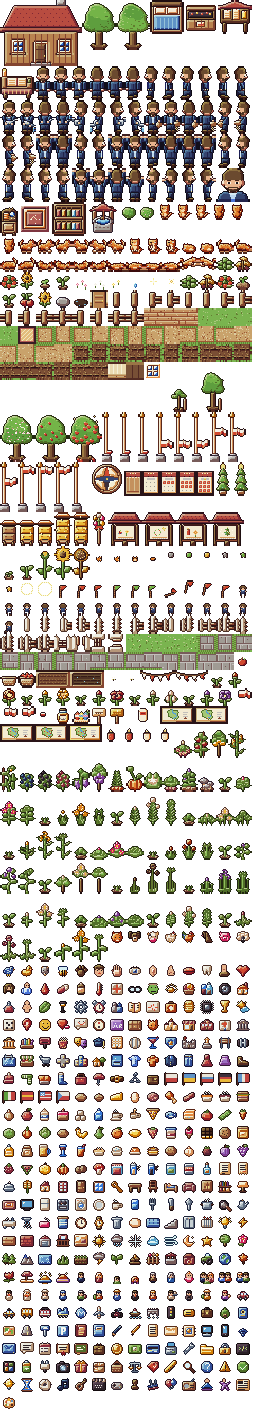
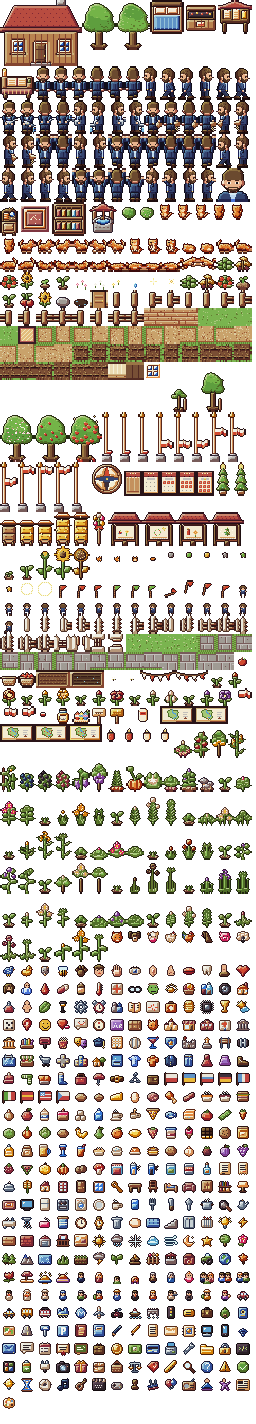
Герой: профиль перерисован вручную в духе SDV
Голова в профиль с носом в 1 px, глазом, бровью, ухом и бородой по линии челюсти,
зачёс с объёмом; пиджак с полосой рубашки, лацканом и пряжкой; рука перед корпусом
машет против ближней ноги; шаг с дальней ногой темнее и покачиванием корпуса на 1 px.
Рабочие позы сбоку (полив, удобрение, ноша, бросок) — на новом корпусе. Фронт, спина
и портрет без изменений, палитра та же.

diff --git a/tools/art_hero.py b/tools/art_hero.py
@@ -2,6 +2,8 @@
 
 Короткие тёмно-русые волосы с зачёсом вверх, короткая борода, светло-голубая рубашка, тёмно-синий пиджак и брюки,
 коричневый ремень и ботинки. Голова — одна группа (без швов), руки отдельной группой, ботинки отдельной.
+Профиль (left, right = зеркало) нарисован вручную тонами палитры (HEAD_SIDE, TORSO_SIDE, ARM_SIDE, LEGS_SIDE): голова 3/4
+в духе SDV, рука против ближней ноги, в шаге корпус опускается на 1 px.
 """
 from __future__ import annotations
 
@@ -78,34 +80,157 @@ def hero_up(step: int, arms=None, post=None) -> Cv:
     return c
 
 
+class HCv(Cv):
+    """Холст профиля: фигура, нарисованная поверх, снимает ручные тона (накладки) под собой."""
+
+    def fill(self, test, part, only=None):
+        for y in range(self.h):
+            for x in range(self.w):
+                i = y * self.w + x
+                if test(x + 0.5, y + 0.5) and (only is None or self.m[i] in only):
+                    self.m[i] = part
+                    self.ov[i] = None
+        return self
+
+
+# Ручная раскладка тонов (профиль рисуется как пиксель-арт): буква → (часть для контура, тон палитры). '.' пусто.
+TONES = {
+    'k': ('hair', 'hair.4'), 'K': ('hair', 'hair.3'), 'H': ('hair', 'hair.2'), 'h': ('hair', 'hair.1'), 'D': ('hair', 'hair.0'),
+    'l': ('skin', 'skin.4'), 'L': ('skin', 'skin.3'), 'S': ('skin', 'skin.2'), 's': ('skin', 'skin.1'), 'x': ('skin', 'skin.0'),
+    'C': ('skin', 'cheek'), 'E': ('skin', 'ink'), 'W': ('skin', 'eye_white'), 'M': ('skin', 'mouth'),
+    'n': ('beard', 'beard.3'), 'B': ('beard', 'beard.2'), 'b': ('beard', 'beard.1'), 'd': ('beard', 'beard.0'),
+    't': ('blazer', 'blazer.4'), 'r': ('blazer', 'blazer.3'), 'e': ('blazer', 'blazer.2'), 'w': ('blazer', 'blazer.1'), 'q': ('blazer', 'blazer.0'),
+    'v': ('shirt', 'shirt.4'), 'g': ('shirt', 'shirt.3'), 'f': ('shirt', 'shirt.2'),
+    'P': ('trouser', 'trouser.4'), 'p': ('trouser', 'trouser.3'), 'o': ('trouser', 'trouser.2'), 'i': ('trouser', 'trouser.1'), 'u': ('trouser', 'trouser.0'),
+    'G': ('boot', 'boot.3'), 'J': ('boot', 'boot.2'), 'j': ('boot', 'boot.1'), 'Y': ('boot', 'boot.0'),
+    'V': ('belt', 'belt.2'), 'c': ('belt', 'belt.1'), 'Q': ('belt', 'gold.3'),
+}
+
+
+def paint(c: Cv, rows: list[str], ox: int = 0, oy: int = 0) -> None:
+    for y, row in enumerate(rows):
+        assert len(row) == 16, row
+        for x, ch in enumerate(row):
+            if ch == '.':
+                continue
+            X, Y = x + ox, y + oy
+            if 0 <= X < c.w and 0 <= Y < c.h:
+                part, tone = TONES[ch]
+                c.m[Y * c.w + X] = part
+                c.ov[Y * c.w + X] = tone
+
+
+# Профиль (смотрит влево). Голова y=0…14: зачёс вверх-назад, бровь, глаз, нос 1 px, ухо, бакенбард переходит
+# в короткую бороду по линии челюсти, усы.
+HEAD_SIDE = [
+    '................',
+    '.....KKKHH......',
+    '...KKKHHHHh.....',
+    '..KKHKHHhHHh....',
+    '..KHHHKHHHHhh...',
+    '..HHhHHhHHHhh...',
+    '..LLSShHhHHhh...',
+    '..SSSSShhHHhh...',
+    '..hhSSSbhHhhh...',
+    '..SESSSbLShhh...',
+    '.SSSSSnbSshh....',
+    '..nnSBBbSsh.....',
+    '..MBBBBbbSs.....',
+    '...nBBbbsSs.....',
+    '....bbb.........',
+]
+# Корпус y=14…23 без руки: воротник рубашки и шея, грудь с полосой рубашки, лацкан, ремень с пряжкой спереди, спина.
+TORSO_SIDE = [
+    '.......gSse.....',
+    '....gfrrrrew....',
+    '....gerrreew....',
+    '....ferreeew....',
+    '....fweeeeew....',
+    '....fewreeew....',
+    '....feeeeeew....',
+    '....fewwweew....',
+    '....Qceeeeew....',
+    '....wwwwwwqw....',
+]
+# Ближняя рука y=15…23: 0 висит, 1 отведена назад, -1 вынесена вперёд.
+ARM_SIDE = {
+    0: [
+        '.......rre......',
+        '......wreeq.....',
+        '......wreeq.....',
+        '......wreeq.....',
+        '......wreeq.....',
+        '......wrewq.....',
+        '......qwwwq.....',
+        '......qLSq......',
+        '.......Ss.......',
+    ],
+    1: [
+        '.......rre......',
+        '.......reew.....',
+        '.......wreeq....',
+        '........wreeq...',
+        '........wreeq...',
+        '.........wreq...',
+        '.........qwwwq..',
+        '..........LSq...',
+        '..........Ss....',
+    ],
+    -1: [
+        '.......rre......',
+        '......rreew.....',
+        '......rreeq.....',
+        '.....wreeq......',
+        '.....wreeq......',
+        '....wreeq.......',
+        '....qwwwq.......',
+        '....qLSq........',
+        '.....Ss.........',
+    ],
+}
+# Ноги y=24…31 (в шаге корпус опускается на 1 px, ноги с y=25). 0 стоит; -1 ближняя нога впереди; +1 ближняя сзади.
+LEGS_SIDE = {
+    0: [
+        '.....pooooi.....',
+        '.....poouii.....',
+        '.....poouii.....',
+        '.....poouii.....',
+        '.....poouii.....',
+        '....GJJjYjj.....',
+        '...GJJJjjYjj....',
+        '...YYYYYYYYY....',
+    ],
+    -1: [
+        '.....pooouii....',
+        '....pooo.uii....',
+        '...pooo..uii....',
+        '...poo...uiii...',
+        '..GJJj....uii...',
+        '.GJJJjj..YYjjj..',
+        '.YYYYYY..YYYY...',
+    ],
+    1: [
+        '.....iiooop.....',
+        '....iii.pooo....',
+        '...iii..pooo....',
+        '...iii...pooo...',
+        '..Yjj.....GJJj..',
+        '.Yjjjj...GJJjjj.',
+        '.YYYYY...YYYYY..',
+    ],
+}
+
+
 def hero_left(step: int, arms=None, post=None) -> Cv:
-    c = Cv(16, 32, PARTS)
-    for side in (1, -1):
-        off = step * side * 1.6
-        lift = 0.8 if (step != 0 and off > 0) else 0.0
-        c.rect(6.2 + off, 23.0, 3.8, 6.9 - lift, 'trouser')
-        c.ell(6.9 + off, 30.2 - lift, 3.0, 1.4, 'boot')
-    c.rect(5.0, 22.0, 6.4, 1.8, 'belt')
-    c.poly([[5.0, 16.0], [6.6, 14.6], [9.6, 14.6], [11.0, 16.0], [11.0, 23.9], [5.0, 23.9]], 'blazer')
-    c.rect(5.0, 15.2, 1.4, 6.8, 'shirt')
-    c.dot(5, 22.6, 'gold.3')
+    c = HCv(16, 32, PARTS)
+    dy = 1 if step != 0 else 0
+    paint(c, LEGS_SIDE[step], 0, 24 + dy)
+    paint(c, TORSO_SIDE, 0, 14 + dy)
     if arms:
         arms(c, step)
     else:
-        sw = -step * 1.6
-        c.cap(8 + sw * 0.4, 16.4, 8 + sw, 21.8, 1.6, 'sleeve')
-        c.ell(8 + sw, 23.2, 1.3, 1.2, 'hand')
-    c.rect(6.4, 13.4, 3.2, 2.2, 'skin')
-    c.ell(7.8, 9.2, 4.9, 5.4, 'skin')
-    c.ell(9.6, 9.8, 0.9, 1.4, 'skin')
-    c.ell(8.6, 5.6, 5.2, 4.5, 'hair')
-    c.ell(7.4, 3.4, 3.9, 2.5, 'hair')
-    c.fill(lambda x, y: ((x - 7.8) / 4.9) ** 2 + ((y - 9.2) / 5.4) ** 2 <= 1 and y > 7.2 and x < 9.0, 'skin', only=['hair'])
-    c.rect(9.0, 6.6, 3.8, 5.2, 'hair', only=['skin', None, 'hair'])
-    c.poly([[2.9, 10.4], [3.8, 13.0], [6.6, 14.9], [9.2, 13.4], [9.2, 10.2], [6.2, 11.8]], 'beard', only=['skin'])
-    c.rect(3.0, 11.0, 2.6, 1.0, 'beard', only=['skin'])
-    c.rect(2.0, 9.4, 1.4, 1.6, 'skin')
-    c.dot(4, 9, 'ink')
+        paint(c, ARM_SIDE[-step], 0, 15 + dy)  # рука против ближней ноги
+    paint(c, HEAD_SIDE, 0, dy)
     if post:
         post(c)
     return c
